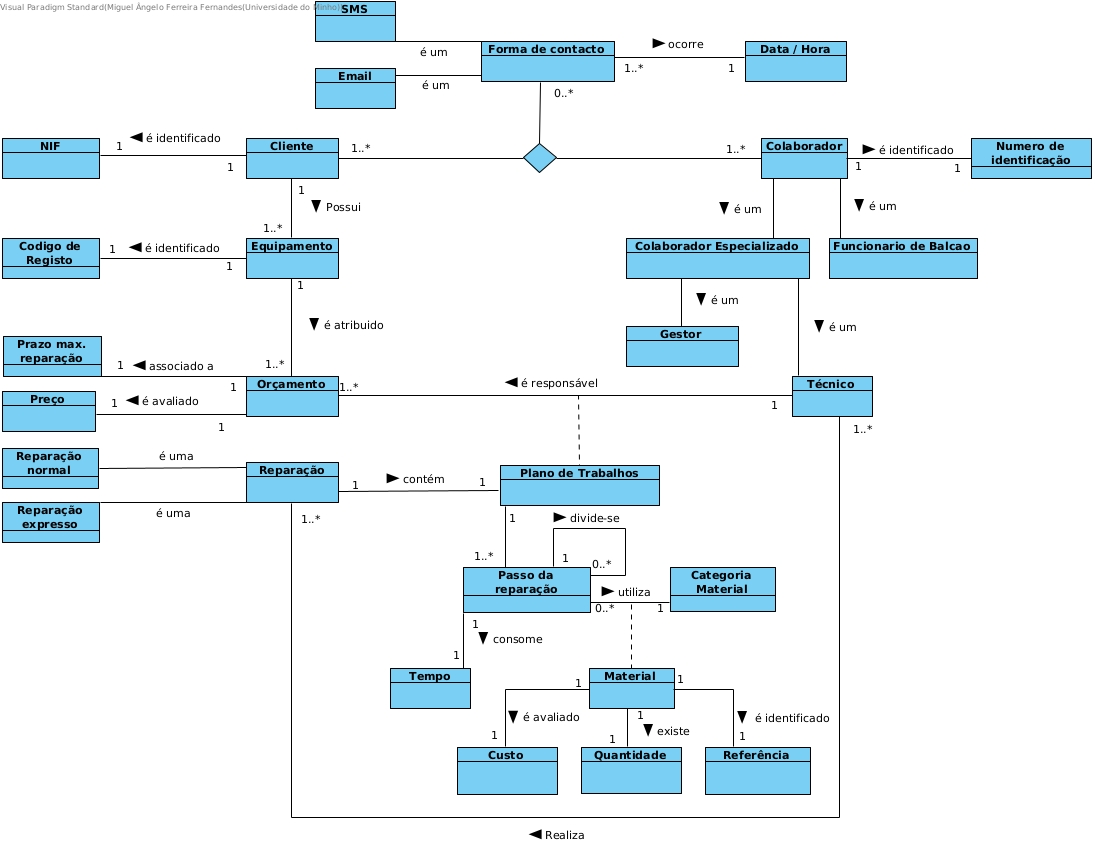
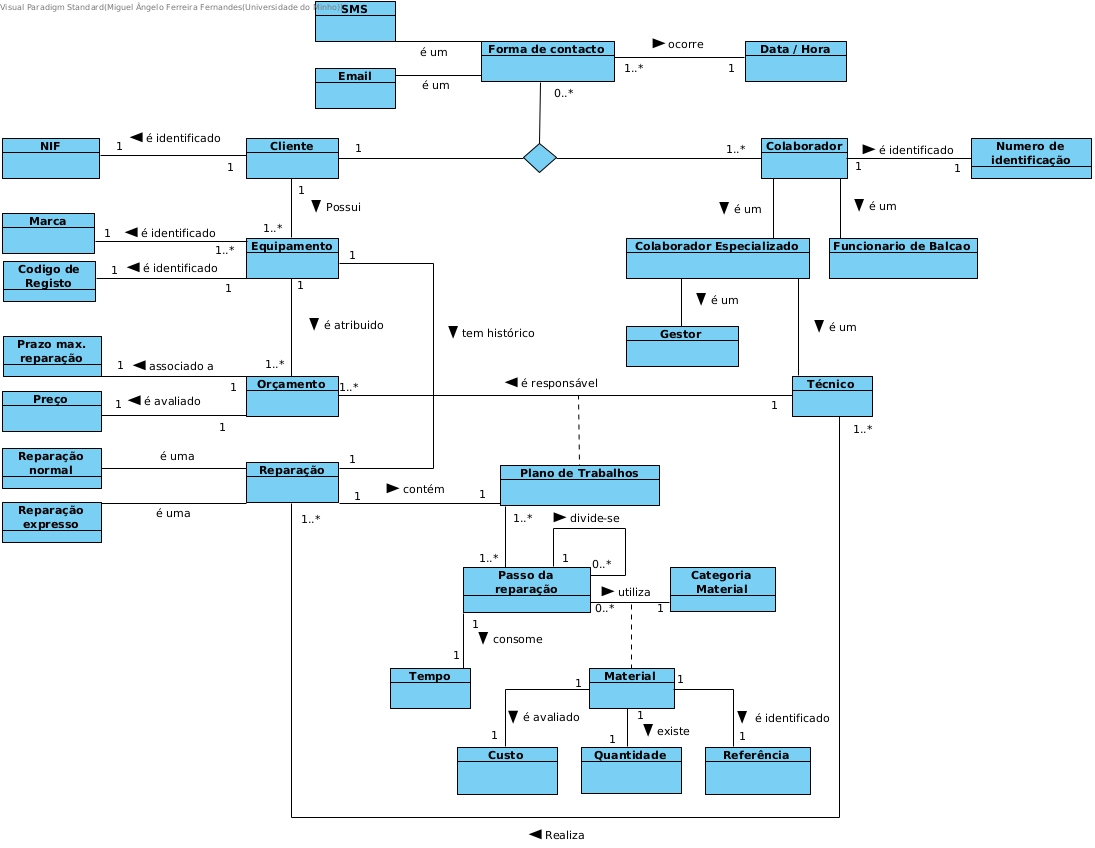
relatorio com descrição do modelo

diff --git a/docs/relatorio.tex b/docs/relatorio.tex
@@ -106,10 +106,10 @@
         Posteriormente, conseguiu-se realizar a modelação dos requisitos funcionais.
         Assim, foi desenvolvido um \textbf{Modelo de Domínio} e um \textbf{Diagrama de \textit{Use Case}},
         assim como as respetivas descrições dos mesmos.
-    
+        
         A estratégia utilizada permitiu seguir uma linha de raciocínio estruturada e ao utilizar uma linguagem de modelação unificada obteve-se
         um conjunto de diagramas que são facilmente interpretáveis entre pares.
-
+        
         \par \textbf{Área de Aplicação}: Análise de Requisitos
         \par \textbf{Palavras-Chave}: \textit{Unified Modeling Language} (UML), \textit{Visual Paradigm}, Modelação de Domínio, Modelação de Requisitos Funcionais, Diagrama de \textit{Use Case}, Modelo de Domínio, Análise de Projeto, Conceção de Projeto, Análise de Requisitos
     \end{abstract}
@@ -175,22 +175,6 @@ Para a fase a que este relatório se refere - \textbf{análise}, inclui-se
 (i) a análise do domínio do problema, através da modelação de um modelo de domínio e 
 (ii) de requisitos funcionais, onde se utlizará a modelação de requisitos funcionais, com uma visão orientada aos \textit{use cases}.
 
-
-%Tendo como primitiva principal automatizar o processo de reparação, o sistema deverá auxiliar todos os colaboradores intervenientes a executar
-%as suas funcionalidades e agilizar o Centro de Reparações.
-
-%O centro de reparações oferece dois tipos de intervenções. 
-
-%Uma intervenção \textbf{Normal}, de duração variável, em que o equipamento é reparado após a aprovação do cliente face a um orçamento criado.
-%A segunda intervenção, \textbf{Expresso}, é a preço fixo, mais rápida, e só aceite mediante disponiblidade tempo para um serviço imediato.
-%Para desenvolver o orçamento é necessário realizar uma avaliação do equipamento e definir um plano de trabalhos.
-%O plano de trabalhos consiste na sequência de passos da reparação, apontando o custo e a quantidade de material necessária, bem como o tempo 
-%previsto da reparação.
-
-%Os colaboradores são os únicos elementos intervenientes do sistema. O funcionário de balcão primeiramente identifica os clientes e o(s) respetivo(s)
-%equipamento(s), com posterior pedido de orçamento. O técnico será o responsável pela especificação do orçamento e realização da reparação. 
-%Por outro lado, o gestor terá um papel mais administrativo, avaliando os desempenhos dos outros elementos.
-
 \section{Objectivos}
 Pretende-se efetuar uma abordagem ao problema utilizando uma estratégia estruturada e sistemática, concretizando a modelação do problema.
 Assim, é possível obter um \textbf{modelo de domínio} que fornece uma \textit{framework} conceptual para raciocinar sobre o problema.
@@ -218,6 +202,45 @@ a criação de uma visão estática do mesmo, \textit{i.e.} um modelo de domíni
 
 Com o auxílio deste será formulada uma \textit{framework} conceptual do sistema, permitindo raciocinar sobre o problema e estabelecer o 
 vocabulário a ser usado no decorrer do projeto.
+
+\section{Descrição do problema}
+O centro de reparações oferece dois tipos de intervenções:
+\begin{itemize}
+    \item[Normal]{Uma intervenção de duração variável, em que o equipamento é reparado após a aprovação do cliente face a um orçamento criado.}
+    \item[Expresso]{Conjunto de serviços limitado, com preço fixo e 
+                    que apenas é aceite mediante disponiblidade de tempo para realização imediata.
+                   }
+\end{itemize}
+
+Para desenvolver o orçamento é necessário realizar uma avaliação do equipamento e definir um plano de trabalhos. 
+Este consiste na sequência de passos da reparação, cada um apontando o custo, a quantidade de material necessária e o tempo 
+previsto da reparação.
+
+Os colaboradores são os principais atores do sistema. 
+O funcionário de balcão identifica o(s) cliente(s) e o(s) respetivo(s) equipamento(s). Posteriormente, efetua o pedido de orçamento.
+Assume-se que um cliente pode ter um ou mais equipamentos.
+Sendo que o equipamento pode avariar mais do que uma vez, torna-se relevante a sua entidade ser reutilizada entre cada reparação.
+Por isso, um equipamento tem um histórico de reparações, assim como histórico de orçamentos.
+
+O técnico é o responsável pela especificação do orçamento e realização da reparação.
+Por uma questão de otimização de tempo e recursos, um técnico pode estar associado a mais do que uma reparação,
+assim como uma reparação pode ser executada por mais do que um técnico 
+(por exemplo, quando um técnico termina o seu turno, outro pode pedir ao sistema uma reparação pendente e dar-lhe continuidade).
+Para o desenvolvimento de um orçamento, o técnico constrói um novo plano de trabalhos.
+Este, por sua vez, é constituído por um conjunto de passos de reparação.
+Para tornar o sistema mais flexível, optou-se por associar uma categoria de material ao passo,
+permitindo que o mesmo \textbf{passo de reparação} possa ser reutilizado em mais que um plano de trabalhos.
+Ainda com o mesmo propósito, optou-se por associar qualquer tipo de reparação à entidade \textbf{Reparação},
+sendo que esta contém um plano de trabalhos.
+Esta estratégia permite que até a reparação expresso (que tem características particulares - serviço fixo),
+possa ser caracterizada por um plano de trabalhos.
+
+Atendendo que a reparação gasta \textbf{Material}, optou-se por acrescentar a \textbf{Quantidade} de material em \textit{stock}.
+Esta alteração permitiu calcular quais as reparações que podem avançar,
+bem como o material que é necessário encomendar (ver \ref{encomendar_material}).
+
+Por último, o gestor terá um papel de administração, avaliando os desempenhos dos outros elementos e
+recrutando novos colaboradores (tendo de os adicionar ao sistema).
 
 Neste sentido, como resposta à necessidade de modelar o problema e com base na análise do enunciado proposto foram identificadas as 
 principais entidades (\ref{ent}) que fazem parte do sistema, assim como os relacionamentos entre elas. 
@@ -252,7 +275,10 @@ Desta forma, foi definido os seguintes tipos:
 \subsection{Equipamento} \label{ent_equipamento}
 Corresponde a uma entidade que representa um objeto físico que irá entrar no sistema com a perspetiva de obter um orçamento e,
 eventualmente, originar uma reparação.
-Esta entidade é identificada por um código de registo.
+Esta entidade é identificada por um código de registo e marca.
+Optou-se por um identificador duplo - \{marca, código de registo\}, 
+por forma a garantir que cada equipamento é facilmente identificado sem repetições.
+O código de registo é o número de série.
 
 \subsection{Orçamento} \label{ent_orcamento}
 O orçamento é a entidade associada a um plano de trabalhos estabelecido pelo técnico e ao prazo máximo de execução da reparação.
@@ -284,17 +310,6 @@ O material é uma entidade fundamental tanto para a previsão do orçamento como
 Este é identificado pela sua referência, está associado a um custo e está contido na categoria respetiva.
 
 \section{Diagrama de Modelo de Domínio}
-Como já foi referido, o modelo de domínio representa estaticamente, as identidades e as suas relações. 
-
-O colaborador e o cliente estabelecem contacto a partir de uma forma de contacto, cada contacto realizado necessita de ser registado.
-
-Um técnico é responsável pela especificação de vários orçamentos, estes são concebidos com base no plano de trabalhos desenvolvido. É no plano de trabalhos que se 
-permite obter a previsão do tempo e o custo do material necessário que se calcula o preço e prazo máximo de reparacão do orçamento. 
-
-Nos dois tipos de serviços disponíveis, a reparação do equipamento está associada a um plano de trabalhos. % plano é  guia da reparação % 
-
-De forma a eviar a constante criação de novos passos da reparação devido a utilizar materiais com o mesmo fim mas com referências diferentes, criamos a classe
-de material que agregará materiais da mesma "espécie". Assim a relação entre o passo da reparação e a classe de mateiral é caracterizada por um material.
 
 \begin{figure}[!ht]
     \centering
@@ -425,12 +440,15 @@ foram identificados os seguintes \textit{use cases}:
 \noindent{\rule{\textwidth}{0.4pt}
 
 \chapter{Considerações Finais}
-
+% pontos positivos
+% pontos negativos
+% estratégia foi adequada?
+% 
 % Principais dificuldades: Inicialmente divisão dos cenários por uses cases, o que incluir no modelo de use case da reparação de um equipamento
 %                           Como definir os passos da reparação, como defenir cada passo surgindo a ideia do material, 
 %                           associação do cliente e o colaborador(associação para relação n-ária), presença do system timer no dominio como classe,  ... 
 %
-% O que poderiamos melhorar: 
+% O que poderiamos melhorar:  
 %
 %
 % Como superar:

diff --git a/docs/use_cases/usecase_registar-equipamento.tex b/docs/use_cases/usecase_registar-equipamento.tex
@@ -10,14 +10,14 @@ Registo de um equipamento no sistema, utilizando os respetivos dados.
               \textbf{Fluxo Normal}
           \end{flushleft}
           \begin{enumerate}
-              \item Funcionário insere referência do material
-              \item Sistema verifica referência do material
+              \item Funcionário insere código de registo e marca do equipamento
+              \item Sistema verifica identificador \{código de registo, marca\} do equipamento
               \item Funcionário insere identificador do cliente
               \item Sistema verifica identificador do cliente
               \item Sistema regista os dados do equipamento
           \end{enumerate}
           \begin{flushleft}
-            \textbf{Fluxo de Exceção 1 (passo 2) [Referência já existe]}
+            \textbf{Fluxo de Exceção 1 (passo 2) [Identificador \{código de registo, marca\} já existe]}
         \end{flushleft}
         \begin{itemize}
             \item[2.1]{Sistema comunica que identificador já está registado}

diff --git a/docs/use_cases/usecase_criar-rep-xpress.tex b/docs/use_cases/usecase_criar-rep-xpress.tex
@@ -10,10 +10,10 @@ Registo de uma nova reparação expresso no sistema, incluindo o material utiliz
               \textbf{Fluxo Normal}
           \end{flushleft}
           \begin{enumerate}
-              \item Colaborador especializado insere nome e descrição do passo
+              \item Colaborador especializado insere nome da reparação
               \item Sistema verifica nome da reparação
-              \item Colaborador especializado insere material gasto e tempo utilizado
-              \item Sistema calcula o preço da reparação expresso
+              \item Colaborador especializado insere dados da reparacao % descrição, ...
+              \item Colaborador especializado define plano de trabalhos
               \item Sistema regista reparação expresso
           \end{enumerate}
           \begin{flushleft}

diff --git a/docs/use_cases/usecase_pedir-orcamento.tex b/docs/use_cases/usecase_pedir-orcamento.tex
@@ -13,12 +13,13 @@ Resgisto do pedido de orçamento de um equipamento através do seu identificador
 		      \item Funcionário insere identificador do cliente
               \item Sistema seleciona cliente
 		      \item Funcionário insere identificador do equipamento
+		      \item Sistema verifica identificador do equipamento
 		      \item Funcionário regista pedido de orçamento
 		      \item Sistema adiciona pedido de orçamento
 	      \end{enumerate}
 
 	      \begin{flushleft}
-		      \textbf{Fluxo Alternativo 1 (passo 2) [Equipamento não registado]}
+		      \textbf{Fluxo Alternativo 1 (passo 4) [Equipamento não registado]}
 	      \end{flushleft}
 	      \begin{itemize}
 		      \item[2.1] $\ll include \gg$ Registar equipamento

diff --git a/docs/use_cases/usecase_fazer-orcamento.tex b/docs/use_cases/usecase_fazer-orcamento.tex
@@ -15,7 +15,7 @@ registando data e hora.
               \item Técnico solicita pedido de orçamento mais antigo
               \item Sistema devolve pedido de orçamento mais antigo
               \item Técnico utiliza identificador para levantar equipamento
-              \item Técnico indica plano de trabalhos para a reparação
+              \item Técnico define plano de trabalhos para a reparação
               \item Sistema regista plano de trabalhos para a reparação
               \item Sistema gera orçamento e regista-o
               \item Sistema envia orçamento ao cliente

diff --git a/docs/use_cases/usecase_registar-colaborador.tex b/docs/use_cases/usecase_registar-colaborador.tex
@@ -3,7 +3,9 @@
 Registo de um novo colaborador no sistema pelo Gestor, sendo-lhe associado um número de identificação.
 \begin{itemize}
     \item[Use Case] {\underline{Registar Colaborador}}
-    \item[Cenários] {1, 2, 3, 4 e 5}
+    \item[Cenários] {1, 2, 3, 4 e 5} 
+    % no cenário 1 diz que o colaborador está autenticado
+    % implicitamente, pode-se concluir que é necessário haver um registo
     \item[Pré-condição] {Gestor autenticado}
     \item[Pós-condição] {Novo colaborador registado}
             \begin{flushleft}

diff --git a/docs/use_cases/usecase_encomendar-material.tex b/docs/use_cases/usecase_encomendar-material.tex
@@ -1,6 +1,6 @@
 \documentclass[../relatorio.tex]{subfiles}
 \begin{document}
-Encomenda do material() que se encontra com o seu \textit{stock} a 0 e que é necessário para a concretização de algum passo.
+Encomenda do material que se encontra com o seu \textit{stock} a 0 e que é necessário para a concretização de algum passo.
 \begin{itemize}
     \item[Use Case] {\underline{Encomendar material}}
     \item[Cenários] {3 e 4}
